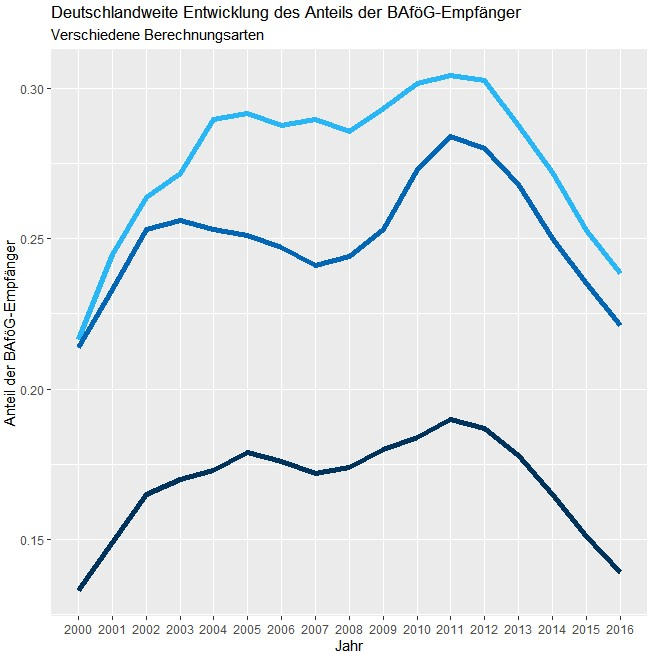
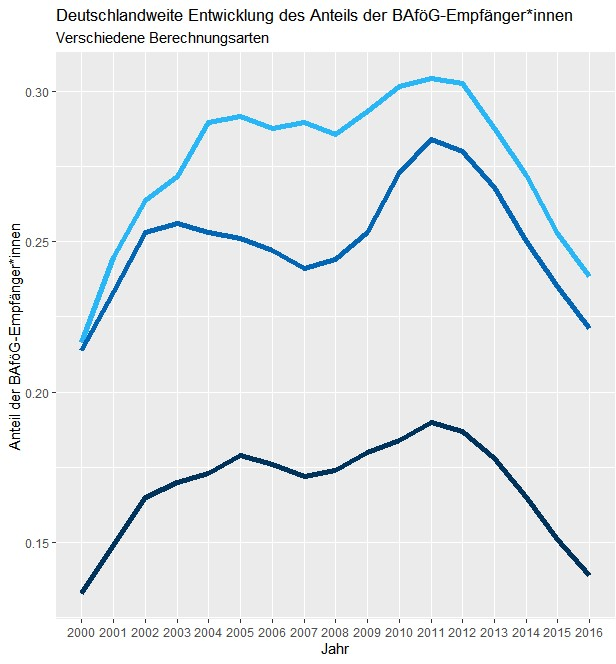
small grammar changes

diff --git a/website/src/components/Development.vue b/website/src/components/Development.vue
@@ -2,7 +2,7 @@
     <div style="text-align: center;">
 
 
-          <h1 class="font-weight-light light-blue--text" style="text-align:left">Bekommen heute weniger Studierende BAföG?</h1>
+          <h1 class="font-weight-light light-blue--text" >Bekommen heute weniger Studierende BAföG?</h1>
 
             <v-container
                 id="scroll-target"
@@ -12,8 +12,8 @@
 
 
             <div id="dev_graph">
-                <h3 style="text-align:left; width: 93%; position: relative; left: 7%" v-scroll="onScrollVerlauf">
-                    Deutschlandweite Entwicklung des Anteils der BAföG-Empfänger*innen unter den Studierenden
+                <h3 style="text-align:center; width: 93%; position: relative; left: 7%" v-scroll="onScrollVerlauf">
+                    Deutschlandweite Entwicklung des Anteils <br>der BAföG-Empfänger*innen unter den Studierenden
                 </h3>
                 <div id="dev-y-axis">
                     Anteil der <br>BAföG-Empfänger*innen
@@ -282,7 +282,7 @@
                <div class="pa-5" v-if="slider.value == 45">
                    <h2>2007</h2>
                    <p class="year-texts">
-                       In die&shy;sem Jahr füh&shy;ren wei&shy;tere Bun&shy;des&shy;län&shy;er all&shy;emeine Studien&shy;ge&shy;bühren ein.
+                       In die&shy;sem Jahr füh&shy;ren wei&shy;tere Bun&shy;des&shy;län&shy;er all&shy;ge&shy;meine Studien&shy;ge&shy;bühren ein.
                        Für das Som&shy;mer&shy;se&shy;mester wer&shy;den die Ge&shy;büh&shy;ren in den Bun&shy;des&shy;län&shy;der Ba&shy;den-Württem&shy;berg, Bayern und Ham&shy;burg ein&shy;ge&shy;führt.
                        Für das Winter&shy;se&shy;mester 2007/2008 ent&shy;schei&shy;den sich Saar&shy;land und Hessen auch für die Ein&shy;füh&shy;rung der Studien&shy;ge&shy;bühren.
                   </p>
@@ -330,7 +330,7 @@
                <div class="pa-5" v-if="slider.value == 75">
                    <h2>2013</h2>
                    <p class="year-texts">
-                       Ob&shy;wohl die För&shy;der&shy;si&shy;tu&shy;ation sich zum Vor&shy;jahr nicht stark ver&shy;ändert hat, konn&shy;ten sich Bund und Län&shy;der nicht auf eine Ver&shy;ände&shy;rung des BAföGs ei&shy;nigen.
+                        Bund und Län&shy;der kön&shy;nen sich nicht auf eine Ver&shy;ände&shy;rung des BAföGs ei&shy;nigen.
                    </p>
                </div>
                <div class="pa-5" v-if="slider.value == 80">
@@ -342,13 +342,13 @@
                <div class="pa-5" v-if="slider.value == 85">
                    <h2>2015</h2>
                    <p class="year-texts">
-                       Im Rah&shy;men des 25. BAföG-Än&shy;derungs&shy;ge&shy;setz wird die BAföG-Fi&shy;nan&shy;zierung voll&shy;stän&shy;dig durch den Bund über&shy;nom&shy;men.
+                       Im Rah&shy;men des 25. BAföG-Än&shy;derungs&shy;ge&shy;setzes wird die BAföG-Fi&shy;nan&shy;zierung voll&shy;stän&shy;dig durch den Bund über&shy;nom&shy;men.
                    </p>
                </div>
                <div class="pa-5" v-if="slider.value == 90">
                    <h2>2016</h2>
                    <p class="year-texts">
-                       Die Ver&shy;än&shy;derun&shy;gen des 25. BAföG-Än&shy;de&shy;rungs&shy;gesetz grei&shy;fen.
+                       Die Ver&shy;än&shy;derun&shy;gen des 25. BAföG-Än&shy;de&shy;rungs&shy;gesetzes grei&shy;fen.
                        Die Ein&shy;kommens&shy;frei&shy;be&shy;trä&shy;ge der El&shy;tern wer&shy;den er&shy;höht und ei&shy;gen&shy;es Ver&shy;mö&shy;gen bis 7.500 Euro wird nicht mehr be&shy;rück&shy;sich&shy;tigt.
                        Das von der Bun&shy;des&shy;re&shy;gie&shy;rung de&shy;fi&shy;nier&shy;te Ziel, 110.000 Ge&shy;för&shy;derte zu&shy;sätzlich zu ge&shy;ne&shy;rie&shy;ren, wird je&shy;doch ver&shy;fehlt.
                    </p>
@@ -620,7 +620,7 @@
                                     </span>
                                     Abgerufen unter:
                                     <a href="https://www-genesis.destatis.de/genesis/online/data?operation=find&suchanweisung_language=de&query=21311-0005">
-                                        https://www-genesis.destatis.de/&#8203;genesis/&#8203;online/&#8203;data?operation=find&suchanweisung_language=de&query=21311-0005
+                                        https://www-genesis.destatis.de/&#8203;genesis/&#8203;online/&#8203;data?operation=find&suchanweisung_language=de&&#8203;query=21311-0005
                                     </a>.
                                 </li>
                                 <li>
@@ -630,7 +630,7 @@
                                   </span>
                                   Abgerufen unter:
                                   <a href="https://www-genesis.destatis.de/genesis/online/data?operation=find&suchanweisung_language=de&query=+21411-0002">
-                                      https://www-genesis.destatis.de/&#8203;genesis/&#8203;online/&#8203;data?operation=find&suchanweisung_language=de&query=+21411-0002
+                                      https://www-genesis.destatis.de/&#8203;genesis/&#8203;online/&#8203;data?operation=find&suchanweisung_&#8203;language=de&&#8203;query=+21411-0002
                                   </a>.
                               </li>
                               <li>
@@ -641,7 +641,7 @@
                                   Abgerufen unter:
                                   <a href="https://www.bafoeg-rechner.de/Hintergrund/geschichte.php#stat">
                                       https://www.bafoeg-rechner.de/&#8203;Hintergrund/&#8203;geschichte.php#stat
-                                  </a>
+                                  </a>.
                               </li>
                             </ul>
                         </div>
@@ -671,11 +671,11 @@
           <div style="text-align: justify">
 
               Im Ver&shy;lauf der Zeit ist ein Unter&shy;schied zwi&shy;schen den neu&shy;en und al&shy;ten Bun&shy;des&shy;län&shy;dern bei der För&shy;der&shy;quote er&shy;kennbar.
-              Bei der Aus&shy;wahl des Studie&shy;nortes bleibt die Mehr&shy;heit der Studie&shy;renden im ei&shy;genen Bundes&shy;land oder im Nach&shy;bar&shy;bun&shy;des&shy;land.
-              Daher lässt sich ver&shy;muten, dass die niedri&shy;geren Ein&shy;kommen im Os&shy;ten für einen Teil der höhe&shy;ren Förder&shy;quote ver&shy;ant&shy;wortlich sind.
+              Bei der Aus&shy;wahl des Studie&shy;nortes bleibt die Mehr&shy;heit der Studie&shy;renden im ei&shy;genen Bundes&shy;land oder zieht in ein Nach&shy;bar&shy;bun&shy;des&shy;land.
+              Daher lässt sich ver&shy;muten, dass die niedri&shy;geren Ein&shy;kommen der Eltern im Os&shy;ten für einen Teil der höhe&shy;ren Förder&shy;quote ver&shy;ant&shy;wortlich sind.
               Bei den west&shy;lichen Bundes&shy;ländern bil&shy;den Schles&shy;wig-Holstein, Saar&shy;land, Nieder&shy;sachsen und Rhein&shy;land-Pfalz die Schluss&shy;lichter bei den durch&shy;schnitt&shy;lichen Ein&shy;kommen.
               Dies spie&shy;gelt sich bei den BAföG-Förder&shy;quoten ent&shy;sprechend eben&shy;falls wieder, be&shy;sonders ab etwa 2005.
-              Das Saar&shy;land bil&shy;det hierbei eine Auß&shy;nahme auf&shy;grund der Grö&shy;ße des Bundes&shy;landes.
+              Das Saar&shy;land bil&shy;det dabei eine Auß&shy;nahme auf&shy;grund der geringen Grö&shy;ße des Bundes&shy;landes.
               Es gibt hier nur eine Uni&shy;ver&shy;sität und dem&shy;ent&shy;spre&shy;chend ver&shy;hältnis&shy;mäßig wenig Studie&shy;rende.
               Aus&shy;reißer können hier&shy;bei stärker ins Ge&shy;wicht fal&shy;len.
 

diff --git a/website/src/components/Money.vue b/website/src/components/Money.vue
@@ -1,6 +1,6 @@
 <template>
     <div style="text-align: center;">
-        <h1 class="font-weight-light light-blue--text" style="text-align:left">Wer bekommt wie viel Geld?</h1>
+        <h1 class="font-weight-light light-blue--text" style="text-align:center">Wer bekommt wie viel Geld?</h1>
         <br>
         <v-layout id="counter">
             <v-row>
@@ -39,7 +39,7 @@
          <br>
 
          <div id="av_monthly_graph">
-             <h3 style="text-align:left; width: 93%; position: relative; left: 7%">
+             <h3 style="text-align:center; width: 93%; position: relative; left: 7%">
                  Mittlerer monatlicher BAföG-Satz im Zeitverlauf
              </h3>
              <div id="money-y-axis">
@@ -169,7 +169,7 @@
             <v-flex md8 sm12 offset-md2 v-if="slider_money.value==50">
                 <h2>2008</h2>
                 <p class="year-texts">
-                    2008 gab es nach sie&shy;ben Jah&shy;ren end&shy;lich wieder eine BAföG-Er&shy;höhung.
+                    2008 gibt es nach sie&shy;ben Jah&shy;ren end&shy;lich wieder eine BAföG-Er&shy;höhung.
                     Der Höchst&shy;satz wird auf 670 Euro mo&shy;nat&shy;lich an&shy;ge&shy;hoben.
                     Außer&shy;dem sind  Master&shy;studie&shy;rende nun bis zum 35. Lebens&shy;jahr BAföG-be&shy;rechtigt.
                 </p>
@@ -204,15 +204,15 @@
             <v-flex md8 sm12 offset-md2 v-if="slider_money.value==75">
                 <h2>2013</h2>
                 <p class="year-texts">
-                    Obwohl die Förder&shy;si&shy;tuation sich zum Vor&shy;jahr nicht stark ver&shy;ändert hat, konnten sich Bund und Län&shy;der nicht auf eine Ver&shy;än&shy;derung des BAföGs einigen.
+                    Obwohl die Förder&shy;si&shy;tuation sich zum Vor&shy;jahr nicht stark ver&shy;ändert hat, können sich Bund und Län&shy;der nicht auf eine Ver&shy;än&shy;derung des BAföGs einigen.
                 </p>
             </v-flex>
             <v-flex md8 sm12 offset-md2 v-if="slider_money.value==80">
                 <h2>2014</h2>
                 <p class="year-texts">
                     In die&shy;sem Jahr tritt das 25. BAföG-Än&shy;derungs&shy;ge&shy;setz in Kraft.
-                    Der Bund über&shy;nimmt dann ab dem 1. Ja&shy;nuar 2015 die kom&shy;plette Fi&shy;nan&shy;zie&shy;rung des BAföGs.
-                    Die ge&shy;plan&shy;te Er&shy;höhung um je&shy;weils 7% der Be&shy;darfs&shy;sätze der Bun&shy;des&shy;bil&shy;dungs&shy;för&shy;derung und der Ein&shy;kom&shy;mens&shy;frei&shy;be&shy;trä&shy;ge der El&shy;tern tre&shy;ten aber erst zum Win&shy;ter&shy;se&shy;mes&shy;ter 2016/2017 in Kraft.
+                    Der Bund über&shy;nimmt ab dem 1. Ja&shy;nuar 2015 die kom&shy;plette Fi&shy;nan&shy;zie&shy;rung des BAföGs.
+                    Die ge&shy;plan&shy;te Er&shy;höhung um je&shy;weils 7% der Be&shy;darfs&shy;sätze der Bun&shy;des&shy;aus&shy;bil&shy;dungs&shy;för&shy;derung und der Ein&shy;kom&shy;mens&shy;frei&shy;be&shy;trä&shy;ge der El&shy;tern tre&shy;ten aber erst zum Win&shy;ter&shy;se&shy;mes&shy;ter 2016/2017 in Kraft.
                     Für je&shy;des ei&shy;gene Kind im ei&shy;genen Haus&shy;halt sol&shy;len Stu&shy;dieren&shy;de ab dann 130 Euro be&shy;kom&shy;men.
                     Beim Wohn&shy;geld&shy;zu&shy;schlag soll es zu einer Er&shy;höhung auf 250 Euro kom&shy;men.
                     Mini&shy;job-Ein&shy;kommen bis zu 450 Euro im Monat sol&shy;len an&shy;rechnungs&shy;frei wer&shy;den.
@@ -346,7 +346,7 @@
                                     Abgerufen unter:
                                    <a href="https://www.xn--bafg-7qa.de/de/welche-bedarfssaetze-sieht-das-bafoeg-vor--375.php">
                                        https://www.xn--bafg-7qa.de/&#8203;de/&#8203;welche-bedarfssaetze-sieht-das-bafoeg-vor--375.php
-                                   </a>
+                                   </a>.
                                </li>
                                <li>
                                  Bundesverfassungsgericht (2005).
@@ -518,7 +518,7 @@
                                 </span>
                                 Abgerufen unter:
                                 <a href="https://www-genesis.destatis.de/genesis/online/data?operation=find&suchanweisung_language=de&query=+21411-0002">
-                                    https://www-genesis.destatis.de/&#8203;genesis/&#8203;online/&#8203;data?operation=find&suchanweisung_language=de&query=+21411-0002
+                                    https://www-genesis.destatis.de/&#8203;genesis/&#8203;online/&#8203;data?operation=find&suchanweisung_language=&#8203;de&query=&#8203;+21411-0002
                                 </a>.
                             </li>
                           </ul>
@@ -596,7 +596,7 @@
                                         Abgerufen unter:
                                        <a href="https://www.studentenwerke.de/de/content/studie-baf%C3%B6g-bedarfss%C3%A4tze-zu-niedrig">
                                            https://www.studentenwerke.de/&#8203;de/&#8203;content/&#8203;studie-baf%C3%B6g-bedarfss%C3%A4tze-zu-niedrig
-                                       </a>
+                                       </a>.
                                    </li>
                               </ul>
                            </p>

diff --git a/website/src/components/Impressum.vue b/website/src/components/Impressum.vue
@@ -51,7 +51,7 @@
 
                     <h3>Datenschutz</h3>
                     <p style="text-align: justify">
-                        Die Nutzung unserer Webseite ist in der Regel ohne Angabe personenbezogener Daten möglich. Soweit auf unseren Seiten personenbezogene Daten (beispielsweise Name, Anschrift oder eMail-Adressen) erhoben werden, erfolgt dies, soweit möglich, stets auf freiwilliger Basis. Diese Daten werden ohne Ihre ausdrückliche Zustimmung nicht an Dritte weitergegeben. Wir weisen darauf hin, dass die Datenübertragung im Internet (z.B. bei der Kommunikation per E-Mail) Sicherheitslücken aufweisen kann. Ein lückenloser Schutz der Daten vor dem Zugriff durch Dritte ist nicht möglich. Zum Hosting der Website nutzen wir den Service Google Firebase Nähere Informationen hierzu sowie zum Datenschutz bei Google-Produkten finden Sie <a href="https://policies.google.com/privacy">hier</a>. Der Nutzung von im Rahmen der Impressumspflicht veröffentlichten Kontaktdaten durch Dritte zur Übersendung von nicht ausdrücklich angeforderter Werbung und Informationsmaterialien wird hiermit ausdrücklich widersprochen. Die Betreiber der Seiten behalten sich ausdrücklich rechtliche Schritte im Falle der unverlangten Zusendung von Werbeinformationen, etwa durch Spam-Mails, vor.
+                        Die Nutzung unserer Webseite ist in der Regel ohne Angabe personenbezogener Daten möglich. Soweit auf unseren Seiten personenbezogene Daten (beispielsweise Name, Anschrift oder eMail-Adressen) erhoben werden, erfolgt dies, soweit möglich, stets auf freiwilliger Basis. Diese Daten werden ohne Ihre ausdrückliche Zustimmung nicht an Dritte weitergegeben. Wir weisen darauf hin, dass die Datenübertragung im Internet (z.B. bei der Kommunikation per E-Mail) Sicherheitslücken aufweisen kann. Ein lückenloser Schutz der Daten vor dem Zugriff durch Dritte ist nicht möglich. Zum Hosting der Website nutzen wir den Service Google Firebase. Nähere Informationen hierzu sowie zum Datenschutz bei Google-Produkten finden Sie <a href="https://policies.google.com/privacy">hier</a>. Der Nutzung von im Rahmen der Impressumspflicht veröffentlichten Kontaktdaten durch Dritte zur Übersendung von nicht ausdrücklich angeforderter Werbung und Informationsmaterialien wird hiermit ausdrücklich widersprochen. Die Betreiber der Seiten behalten sich ausdrücklich rechtliche Schritte im Falle der unverlangten Zusendung von Werbeinformationen, etwa durch Spam-Mails, vor.
                     </p>
             </div>
                 <br>

diff --git a/website/src/components/Info.vue b/website/src/components/Info.vue
@@ -1,6 +1,6 @@
 <template>
     <div style="text-align:left">
-        <h1 class="font-weight-light light-blue--text">Was ist eigentlich BAföG?</h1>
+        <h1 class="font-weight-light light-blue--text" style="text-align:center">Was ist eigentlich BAföG?</h1>
         <br>
         <div style="text-align: justify">
             <p>
@@ -22,7 +22,7 @@
                 Rei&shy;chen die finan&shy;ziellen Mit&shy;tel der Fami&shy;lie nicht aus, wird eine Voll&shy;för&shy;de&shy;rung ge&shy;währt.
                 Um BAföG zu be&shy;zie&shy;hen, muss ein Nach&shy;weis über eine Auf&shy;nahme an einer Schu&shy;le oder einer Hoch&shy;schule er&shy;bracht wer&shy;den.
                 Ab dem 5. Se&shy;mester müs&shy;sen zu&shy;sätzlich Leis&shy;tungs&shy;nach&shy;weise an das BAföG-Amt ge&shy;schickt wer&shy;den.
-                Fünf Jah&shy;re nach dem En&shy;de der För&shy;derungs&shy;höchst&shy;dauer muss mit der Rück&shy;zah&shy;lung der im Stu&shy;diun er&shy;hal&shy;tenen BAföG-För&shy;derung be&shy;gonnen wer&shy;den.
+                Fünf Jah&shy;re nach dem En&shy;de der För&shy;derungs&shy;höchst&shy;dauer muss mit der Rück&shy;zah&shy;lung der im Stu&shy;dium er&shy;hal&shy;tenen BAföG-För&shy;derung be&shy;gonnen wer&shy;den.
                 Dabei wer&shy;den durch den Staat kei&shy;ne Zin&shy;sen be&shy;rechnet.
             </p>
 
@@ -61,7 +61,7 @@
                                       Abgerufen unter:
                                      <a href="https://www.xn--bafg-7qa.de/de/welche-bedarfssaetze-sieht-das-bafoeg-vor--375.php">
                                          https://www.xn--bafg-7qa.de/&#8203;de/&#8203;welche-bedarfssaetze-sieht-das-bafoeg-vor--375.php
-                                     </a>
+                                     </a>.
                                  </li>
                                  <li>
                                      Bundesministerium für Bildung und Forschung (2020).
@@ -71,7 +71,7 @@
                                       Abgerufen unter:
                                      <a href="https://www.xn--bafg-7qa.de/de/darlehensrueckzahlung-200.php">
                                          https://www.xn--bafg-7qa.de/&#8203;de/&#8203;darlehensrueckzahlung-200.php
-                                     </a>
+                                     </a>.
                                  </li>
                             </ul>
                          </p>

diff --git a/website/src/components/Fazit.vue b/website/src/components/Fazit.vue
@@ -1,6 +1,6 @@
 <template>
     <div style="text-align:left">
-        <h1 class="font-weight-light light-blue--text">Wie geht es mit dem BAföG weiter?</h1>
+        <h1 class="font-weight-light light-blue--text" style="text-align:center">Wie geht es mit dem BAföG weiter?</h1>
         <br>
         <div style="text-align: justify">
                         <p>
@@ -50,7 +50,7 @@
                                       Abgerufen unter:
                                      <a href="https://www.xn--bafg-7qa.de/de/bafoeg-reform-das-aendert-sich-622.php">
                                          https://www.xn--bafg-7qa.de/&#8203;de/&#8203;bafoeg-reform-das-aendert-sich-622.php
-                                     </a>
+                                     </a>.
                                  </li>
 
                             </ul>

diff --git a/website/src/components/Home.vue b/website/src/components/Home.vue
@@ -26,7 +26,7 @@
                   </p>
                   <br>
                   <p id="authors">
-                      Von <span>Nina Neser</span>, <span>Sun Mengqiong</span>, <span>Alina Burlakov</span>, <span>Marcus Mikorski</span> und <span>Clarissa Staudt</span>
+                      Von <span>Alina Burlakov</span>, <span>Clarissa Staudt</span>, <span>Marcus Mikorski</span>, <span>Nina Neser</span> und <span>Sun Mengqiong</span>
                   </p>
               </blockquote>
 
@@ -57,7 +57,6 @@
     }
 
     #summary {
-        font-size: 150%;
         text-align: justify;
         line-height: 1.3;
     }

diff --git a/website/src/App.vue b/website/src/App.vue
@@ -57,7 +57,7 @@
         <div>
           <div>
 
-            <p>Nina Neser <br>Sun Mengqiong <br>Alina Burlakov <br>Marcus Mikorski <br>Clarissa Staudt</p>
+            <p>Alina Burlakov<br>Clarissa Staudt<br>Marcus Mikorski<br>Nina Neser<br>Sun Mengqiong<br></p>
           </div>
         </div>
 

diff --git a/README.md b/README.md
@@ -20,9 +20,9 @@ project
 └─── website
 │   │   ...
 ```
-The project is divided into three subfolders. 
+The project is divided into three subfolders.
 
-`data` contains the raw BAföG datasets. 
+`data` contains the raw BAföG datasets.
 
 `R` consists of all R files handling the statistical analysis of the data, whereby `development.R` deals with all analysis regarding the development of the grant rate over time. `money.R` conducts calculations concerning financial data, e.g. the development of the average monthly granted sum of money over time. `helpers.R` contains functions, which are shared between the other two scripts.
 
@@ -37,10 +37,10 @@ The resulting project website can be found under: [https://datenjournalismus-baf
 This project was conducted during the winter term of 2019/2020 as part of the master course "Daten - IT - Kommunikation" at Karlsruher Institut für Technologie.
 
 Concept and Implementation by:
+- Alina Burlakov (KIT)
+- Clarissa Staudt (FU and TU Berlin)
+- Marcus Mikorski (KIT)
 - Nina Neser (KIT)
 - Sun Mengqiong (KIT)
-- Alina Burlakov (KIT)
-- Marcus Mikorski (KIT)
-- Clarissa Staudt (FU and TU Berlin)
 
 Distributed under GPLv3 License. See [LICENSE](LICENSE) for more information.
